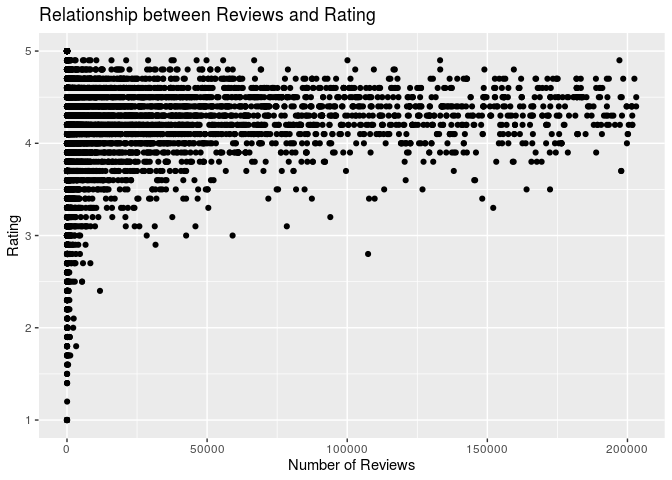
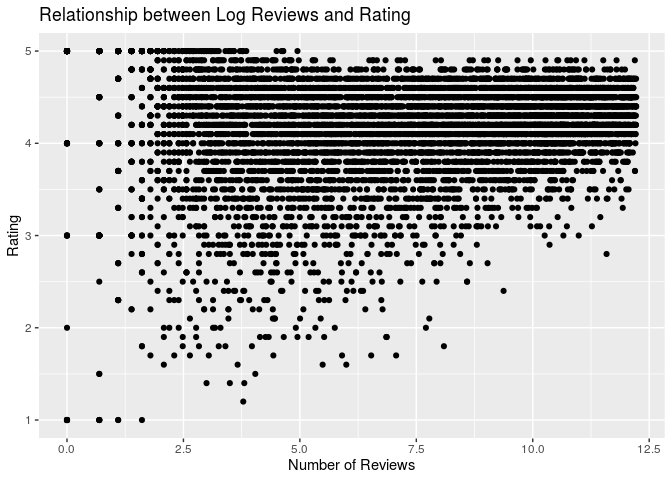
made changes

diff --git a/04-final-writeup/final-writeup.md b/04-final-writeup/final-writeup.md
@@ -83,7 +83,7 @@ Google Play Store. This is a numeric variable.
     ##  n obs: 10841 
     ##  n variables: 13 
     ## 
-    ## ── Variable type:character ──────────────────────────────────────────────────────────────────────────────────────────────────────────────────────────────────────────────────────────────────
+    ## ── Variable type:character ───────────────────────────────────────────────────────────────────────────
     ##        variable missing complete     n min max empty n_unique
     ##     Android Ver       1    10840 10841   3  18     0       34
     ##             App       0    10841 10841   1 194     0     9660
@@ -97,7 +97,7 @@ Google Play Store. This is a numeric variable.
     ##            Size       0    10841 10841   3  18     0      462
     ##            Type       0    10841 10841   1   4     0        4
     ## 
-    ## ── Variable type:numeric ────────────────────────────────────────────────────────────────────────────────────────────────────────────────────────────────────────────────────────────────────
+    ## ── Variable type:numeric ─────────────────────────────────────────────────────────────────────────────
     ##  variable missing complete     n      mean         sd p0 p25    p50
     ##    Rating    1474     9367 10841      4.19       0.54  1   4    4.3
     ##   Reviews       1    10840 10841 444152.9  2927760.6   0  38 2094  
@@ -208,11 +208,7 @@ another for all the other categories.
     ## # … with 23 more rows
 
 As shown in the above table, we can see that the top 6 categories are in
-one level and the others are stored in another
-    level.
-
-    ## Warning: Factor `Android Ver` contains implicit NA, consider using
-    ## `forcats::fct_explicit_na`
+one level and the others are stored in another level.
 
     ## # A tibble: 10 x 2
     ##    `Android Ver`          n
@@ -265,7 +261,11 @@ particular variable had two categories for the rating “Everyone,” one of
 which happend to be coded with a space (“Everyone”) in the dataset.
 Knowing that content ratings are finite, we decided to combine these
 categories together as to reduce the number of levels in this variable
-and its redundancy. \#\#\#\# Univariate Analysis
+and its redundancy.
+
+#### Univariate Analysis
+
+##### Ratings
 
 ![](final-writeup_files/figure-gfm/rating-distribution-1.png)<!-- -->
 
@@ -274,27 +274,61 @@ and its redundancy. \#\#\#\# Univariate Analysis
     ##              <dbl>         <dbl>
     ## 1              4.2           0.6
 
-![](final-writeup_files/figure-gfm/log%20reviews-1.png)<!-- -->
+##### Reviews
+
+![](final-writeup_files/figure-gfm/Reviews-1.png)<!-- -->
+
+    ## # A tibble: 1 x 1
+    ##   `median(Reviews)`
+    ##               <dbl>
+    ## 1              1902
+
+    ## # A tibble: 1 x 1
+    ##   `max(Reviews)`
+    ##            <dbl>
+    ## 1         203130
+
+![](final-writeup_files/figure-gfm/log-reviews-1-1.png)<!-- -->
 
     ## # A tibble: 1 x 3
     ##   `median(log_reviews)` `max(log_reviews)` `IQR(log_reviews)`
     ##                   <dbl>              <dbl>              <dbl>
     ## 1                  7.55               12.2               5.44
 
-Above is the plot of the logged number of reviews for each application.
-We decided to log, due to an extreme skew seen in the plot of the
-original variable.
+Reviews is definetley one of our most skewed predictors, as shown by the
+strong right skew in this histogram. Originally, the skew was even more
+extreme, since there was one outlier that had 78 million reviews.
+Therefore, to correct this issue, we removed the outlier from the
+variable as well as log transformed it in order to make it easier to see
+trends as well as make the variable less skewed.
 
-FOR OTHER UNIVARIATE PLOTS ONLY INCLUDE THOSE IN FULL MODEL
+##### Category
 
-Arrange the bars in the barplot of Categories in order of frequency.
-This will help the reader more easily distinguish which categories are
-the most common.
+![](final-writeup_files/figure-gfm/category-1.png)<!-- -->
 
-Which app has 78 million reviews?
+![](final-writeup_files/figure-gfm/log%20reviews-1.png)<!-- -->
 
-Change the bin width on the histogram of date\_since. It should be fine
-to just use the default bin width by R.
+##### Size
+
+![](final-writeup_files/figure-gfm/size-1.png)<!-- -->
+
+##### Installs
+
+![](final-writeup_files/figure-gfm/installs-1.png)<!-- -->
+
+##### Price
+
+![](final-writeup_files/figure-gfm/price-1.png)<!-- -->
+
+##### Content Rating
+
+![](final-writeup_files/figure-gfm/cr-1.png)<!-- -->
+
+##### Android Version
+
+![](final-writeup_files/figure-gfm/and-plot-1.png)<!-- -->
+
+![](final-writeup_files/figure-gfm/datesince-plot-1.png)<!-- -->
 
 #### Bivariate Analysis
 
@@ -307,7 +341,8 @@ Although there is some variation in rating between app categories, the
 most telling aspect of this exploratory model is the outliers. It
 appears that some categories are more susceptible to outliers with low
 ratings. More over there are notable discrepancies between minimum
-boxplot rating among categories.
+boxplot rating among categories. \*\*NOTE THIS NEEDS TO BE FIXED this
+was copy pasted from the old one i think
 
 ![](final-writeup_files/figure-gfm/reviews-rating-1.png)<!-- -->
 
@@ -316,20 +351,23 @@ number of reviews and app rating. As the number of reviews increased the
 app rating was concentrated at approximately 4.5 - which was consistent
 with apps holding smaller number of reviews. IS THIS RIGHT??
 
+![](final-writeup_files/figure-gfm/size-rating-1.png)<!-- -->
+
 ![](final-writeup_files/figure-gfm/installs-rating-1.png)<!-- -->
 
 The boxplot above clearly shows a significant relationship between
 number of installs and rating. As the number of installs increases the
 IQR appears to decrease in conjunction. Moreover median rating also
-increases with number of installs.
+increases with number of
+installs.
 
 ![](final-writeup_files/figure-gfm/type-rating-1.png)<!-- -->
 
-The boxplots for free and paid apps sport nearly identical median and
-IQR values. This tells us that whether an app is free or paid doesn’t
-appear to have a major impact on the rating. Further analysis into the
-variation of rating among apps of different price levels is
-needed.
+![](final-writeup_files/figure-gfm/content-rating-1.png)<!-- -->
+
+![](final-writeup_files/figure-gfm/andsimp-rating-1.png)<!-- -->
+
+![](final-writeup_files/figure-gfm/datesince-rating-1.png)<!-- -->
 
 ## Section 2: Regression Analysis (includes the final model and discussion of assumptions)
 
@@ -591,8 +629,6 @@ The Constant Variance Assumption assumes that the regression variance is
 the same for all of the predictor variables in the model. To test this
 assumption, we will plot the residual values against predictors.
 
-    ## Warning: Continuous x aesthetic -- did you forget aes(group=...)?
-
 ![](final-writeup_files/figure-gfm/resid-plots-1.png)<!-- -->
 
 As shown, it appears that the constant variance assumption is violated.
@@ -615,13 +651,9 @@ majority of applications given our dataset.
 The Normality Assumption assumes that for any given set of predictors,
 the response variable, `ratings`, follows a Normal distribution around
 its mean. To test this, we will make a Normal QQ
-    plot.
+plot.
 
-![](final-writeup_files/figure-gfm/norm-qq-1.png)<!-- -->
-
-    ## `stat_bin()` using `bins = 30`. Pick better value with `binwidth`.
-
-![](final-writeup_files/figure-gfm/norm-qq-2.png)<!-- -->
+![](final-writeup_files/figure-gfm/norm-qq-1.png)<!-- -->![](final-writeup_files/figure-gfm/norm-qq-2.png)<!-- -->
 
 As shown, our residuals are relatively normally distributed in our
 histogram. The center is around 0 which is good; however there is a
@@ -726,8 +758,6 @@ standardized residuals with large magnitude. This us much better than
 our previous model which had greater than 470 points that violated this
 threshold
 
-    ## `stat_bin()` using `bins = 30`. Pick better value with `binwidth`.
-
 ![](final-writeup_files/figure-gfm/residgram-1.png)<!-- -->
 
     ## [1] 4.702682
@@ -748,9 +778,6 @@ observations which may have caused the skew in our residual variance.
 ### VIF
 
 We will check the VIF of our model without interactions:
-
-    ## Warning: 'tidy.numeric' is deprecated.
-    ## See help("Deprecated")
 
     ## # A tibble: 3 x 2
     ##   names                             x
